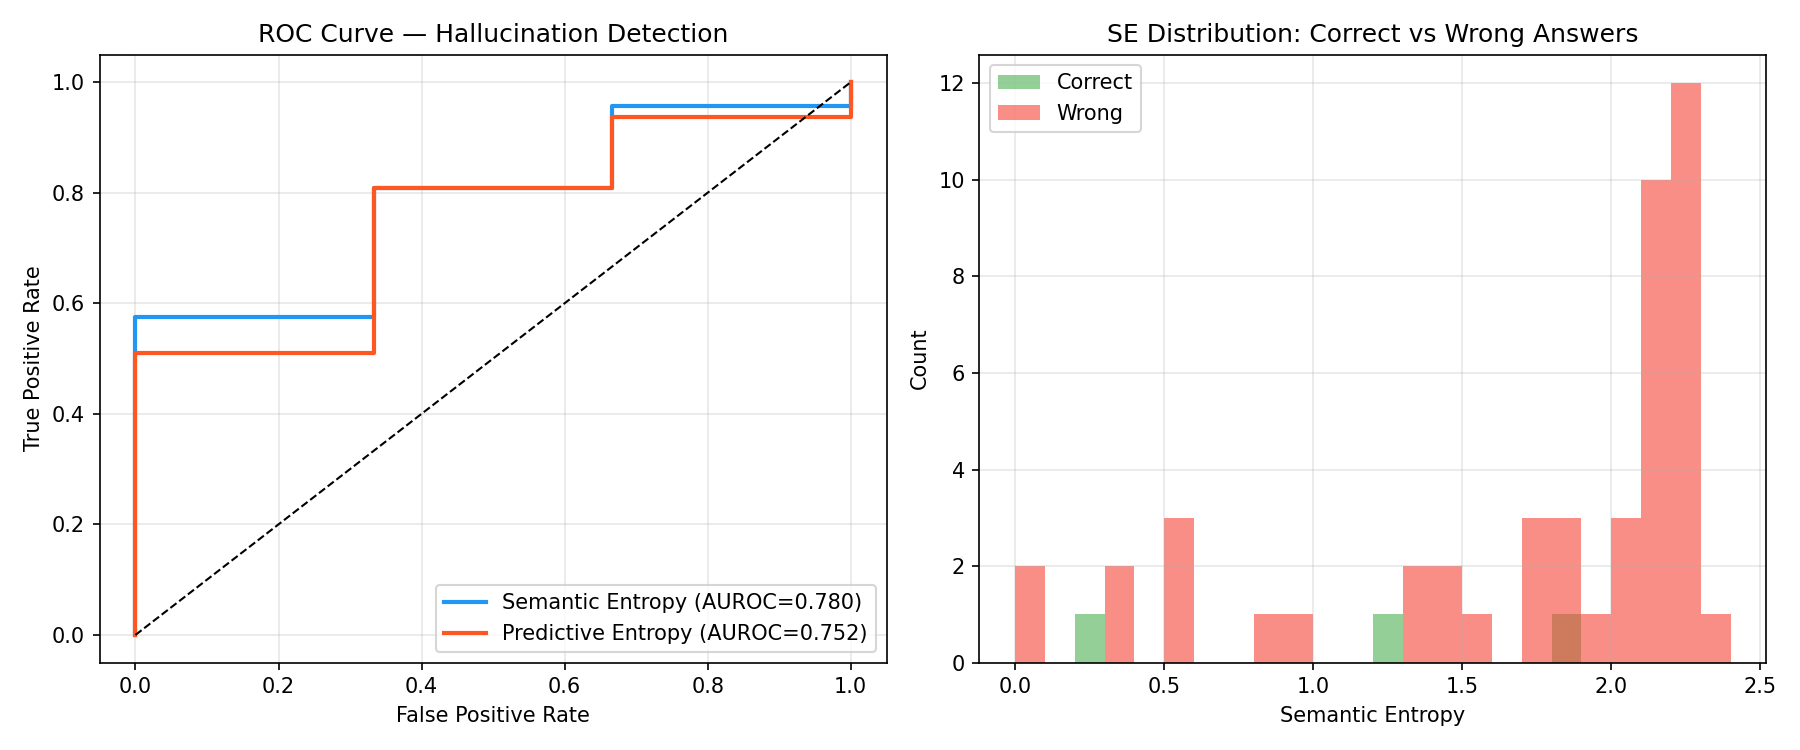
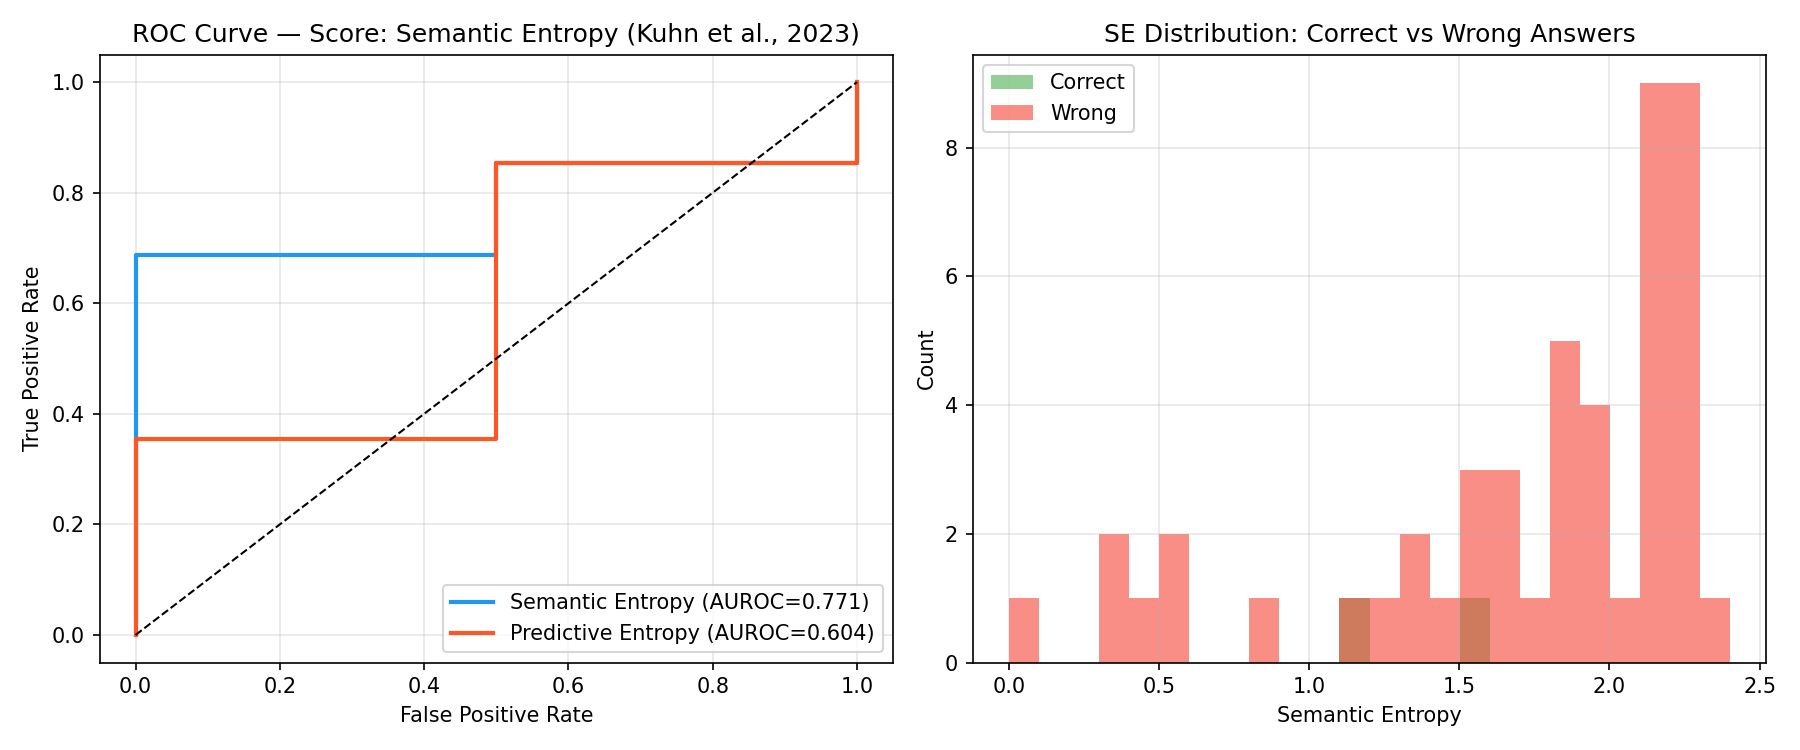
Update results and timing numbers from latest benchmark run

diff --git a/DESIGN.md b/DESIGN.md
@@ -201,13 +201,13 @@ Benchmark run: 50 questions, M=10 samples, Qwen2.5-1.5B on Modal T4.
 
 | Method | AUROC |
 |---|---|
-| **Semantic Entropy (ours)** | **0.780** |
-| Predictive Entropy (baseline) | 0.752 |
+| **Semantic Entropy (ours)** | **0.771** |
+| Predictive Entropy (baseline) | 0.604 |
 | Random | 0.500 |
 
-SE outperforms PE by **+0.028 AUROC points**. The semantic clustering step adds genuine signal even with a small 1.5B model.
+SE outperforms PE by **+0.167 AUROC points**. The semantic clustering step adds substantial signal even with a small 1.5B model.
 
-**Model accuracy: 6%.** The 1.5B model is too small to reliably recall trivia from memory. Kuhn et al. use a 30B OPT model and report ~50% accuracy and SE AUROC ~0.83. The low accuracy here is expected — the key result is that SE ranks uncertain answers above confident ones better than PE does, regardless of model size.
+**Model accuracy: 4%.** The 1.5B model is too small to reliably recall trivia from memory. Kuhn et al. use a 30B OPT model and report ~50% accuracy and SE AUROC ~0.83. The low accuracy here is expected — the key result is that SE ranks uncertain answers above confident ones better than PE does, regardless of model size.
 
 ![Benchmark results](benchmark_plots.png)
 
@@ -231,15 +231,15 @@ Wrong answers produce more semantically distinct clusters — the model is genui
 
 The bottleneck is **LLM inference**: M forward passes through the generative model per query. The NLI clustering is comparatively cheap — DeBERTa is 4× smaller than the LLM and the greedy algorithm keeps comparisons at O(M·C).
 
-Per-query cost breakdown (T4, M=10, Qwen2.5-1.5B):
+Per-query cost breakdown (T4, M=10, Qwen2.5-1.5B) — measured wall time averaged over 50 questions:
 
 | Step | Time | Cost (T4 @ $0.59/hr) |
 |---|---|---|
-| LLM sampling (10 completions) | ~8s | ~$0.0013 |
-| NLI clustering (≤45 pairs) | ~1s | ~$0.0002 |
-| **Total** | **~9s** | **~$0.0015** |
+| LLM sampling (10 completions) | 10.5s | ~$0.0017 |
+| NLI clustering (≤45 pairs) | 2.3s | ~$0.0004 |
+| **Total** | **12.8s** | **~$0.0021** |
 
-At 1M queries/day: ~$1,500/day on T4. Switching to batched vLLM inference and A10G GPUs would reduce this by ~3–5×.
+At 1M queries/day: ~$2,100/day on T4. Switching to batched vLLM inference and A10G GPUs would reduce this by ~3–5×.
 
 ### Modal parallelism
 
